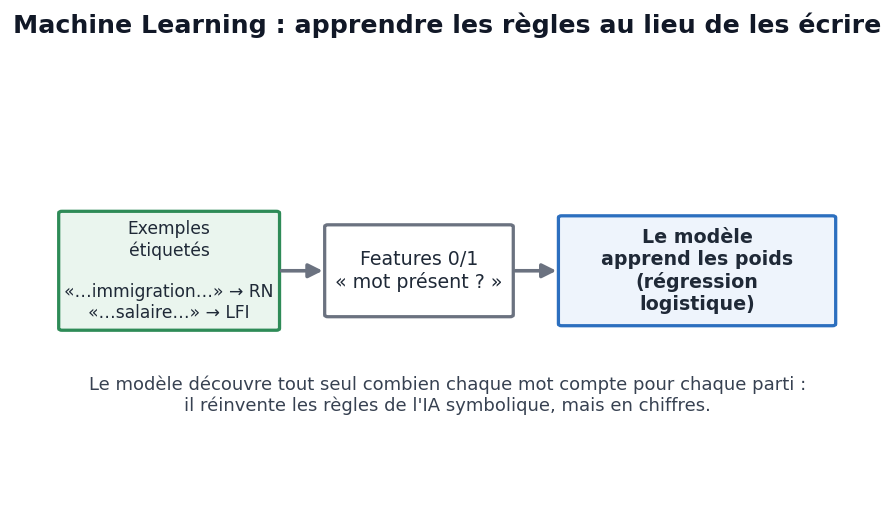
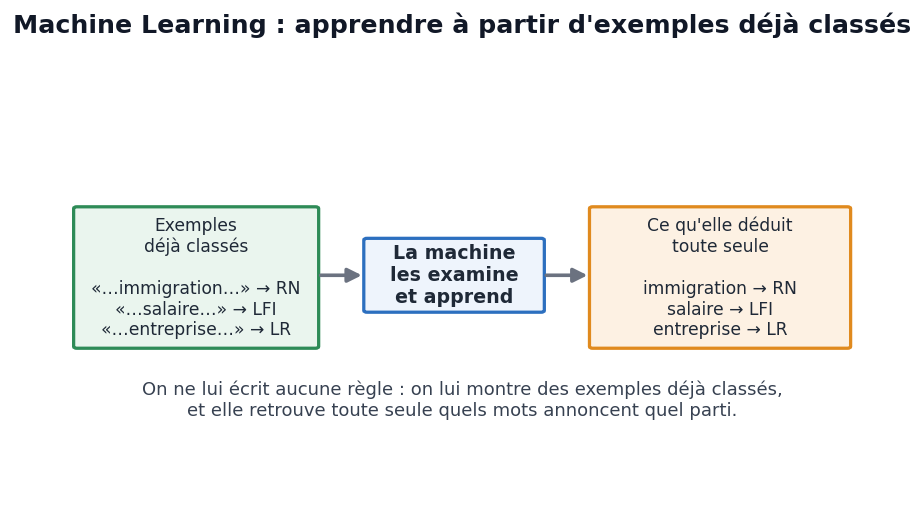
J2-01 : nouvelle image d'opener optimisée + vulgariser le ML (schéma et description)
- m1-opener : image fournie remplaçant la photo Flickr, convertie en JPEG 1000px (35 ko)
- Schéma ML sans jargon (plus de feature / régression logistique / poids)
- Description 1.2 reformulée : exemples déjà classés, la machine déduit les régularités
- Renommage 1.2.1 et reformulation du tableau 0/1 ; renvoi du vocabulaire technique au module 2

Changed region(s): [[0.0604, 0.3707, 0.9362, 0.6795], [0.0906, 0.7104, 0.906, 0.8031], [0.0, 0.0309, 0.9966, 0.0927]]

diff --git a/ressources/j2/1_matin/img/make_schemas.py b/ressources/j2/1_matin/img/make_schemas.py
@@ -96,17 +96,19 @@ fig.savefig(OUT / "m1-generative.png", dpi=130, bbox_inches="tight", facecolor="
 plt.close(fig); print("écrit m1-generative.png")
 
 
-# 1.2 Machine Learning statistique : apprendre les règles depuis les données
-fig, ax = base("Machine Learning : apprendre les règles au lieu de les écrire")
-boite(ax, 0.2, 3.9, 2.7, 2.6, "Exemples\nétiquetés\n\n«…immigration…» → RN\n«…salaire…» → LFI",
+# 1.2 Machine Learning : apprendre à partir d'exemples déjà classés
+fig, ax = base("Machine Learning : apprendre à partir d'exemples déjà classés")
+boite(ax, 0.2, 3.5, 3.0, 3.1,
+      "Exemples\ndéjà classés\n\n«…immigration…» → RN\n«…salaire…» → LFI\n«…entreprise…» → LR",
       VERT, fc="#eaf5ee", fs=9.5)
-boite(ax, 3.5, 4.2, 2.3, 2.0, "Features 0/1\n« mot présent ? »", GRIS, fs=10.5)
-boite(ax, 6.4, 4.0, 3.4, 2.4, "Le modèle\napprend les poids\n(régression\nlogistique)",
-      BLEU, fc="#eef4fc", bold=True, fs=10.5)
-fleche(ax, 2.9, 5.2, 3.5, 5.2)
-fleche(ax, 5.8, 5.2, 6.4, 5.2)
-ax.text(5, 2.1, "Le modèle découvre tout seul combien chaque mot compte pour chaque parti :\n"
-                "il réinvente les règles de l'IA symbolique, mais en chiffres.",
+boite(ax, 3.8, 4.3, 2.2, 1.6, "La machine\nles examine\net apprend", BLEU, fc="#eef4fc", bold=True, fs=10.5)
+boite(ax, 6.6, 3.5, 3.2, 3.1,
+      "Ce qu'elle déduit\ntoute seule\n\nimmigration → RN\nsalaire → LFI\nentreprise → LR",
+      ORANGE, fc="#fdf1e3", fs=9.5)
+fleche(ax, 3.2, 5.1, 3.8, 5.1)
+fleche(ax, 6.0, 5.1, 6.6, 5.1)
+ax.text(5, 2.0, "On ne lui écrit aucune règle : on lui montre des exemples déjà classés,\n"
+                "et elle retrouve toute seule quels mots annoncent quel parti.",
         ha="center", fontsize=10, color="#374151")
 save(fig, "m1-ml.png")
 

diff --git a/ressources/j2/1_matin/img/CREDITS.md b/ressources/j2/1_matin/img/CREDITS.md
@@ -4,7 +4,7 @@
 
 | Fichier | Sujet | Auteur | Licence | Source |
 |---|---|---|---|---|
-| `m1-opener.jpg` | Urne de vote | FutUndBeidl | CC BY 2.0 | Flickr, via Openverse — `live.staticflickr.com/8331/8076635893` |
+| `m1-opener.jpg` | Pions de couleur devant une urne | image fournie par l'intervenant | **à confirmer** | source / licence à préciser |
 | `m2-opener.jpg` | Palais de justice | cygnus921 | CC BY 2.0 | Flickr, via Openverse — `live.staticflickr.com/3893/14731880797` |
 
 Images redimensionnées (largeur 1000 px) pour alléger le dépôt. La licence CC BY 2.0 impose de créditer l'auteur, ce que fait ce fichier.